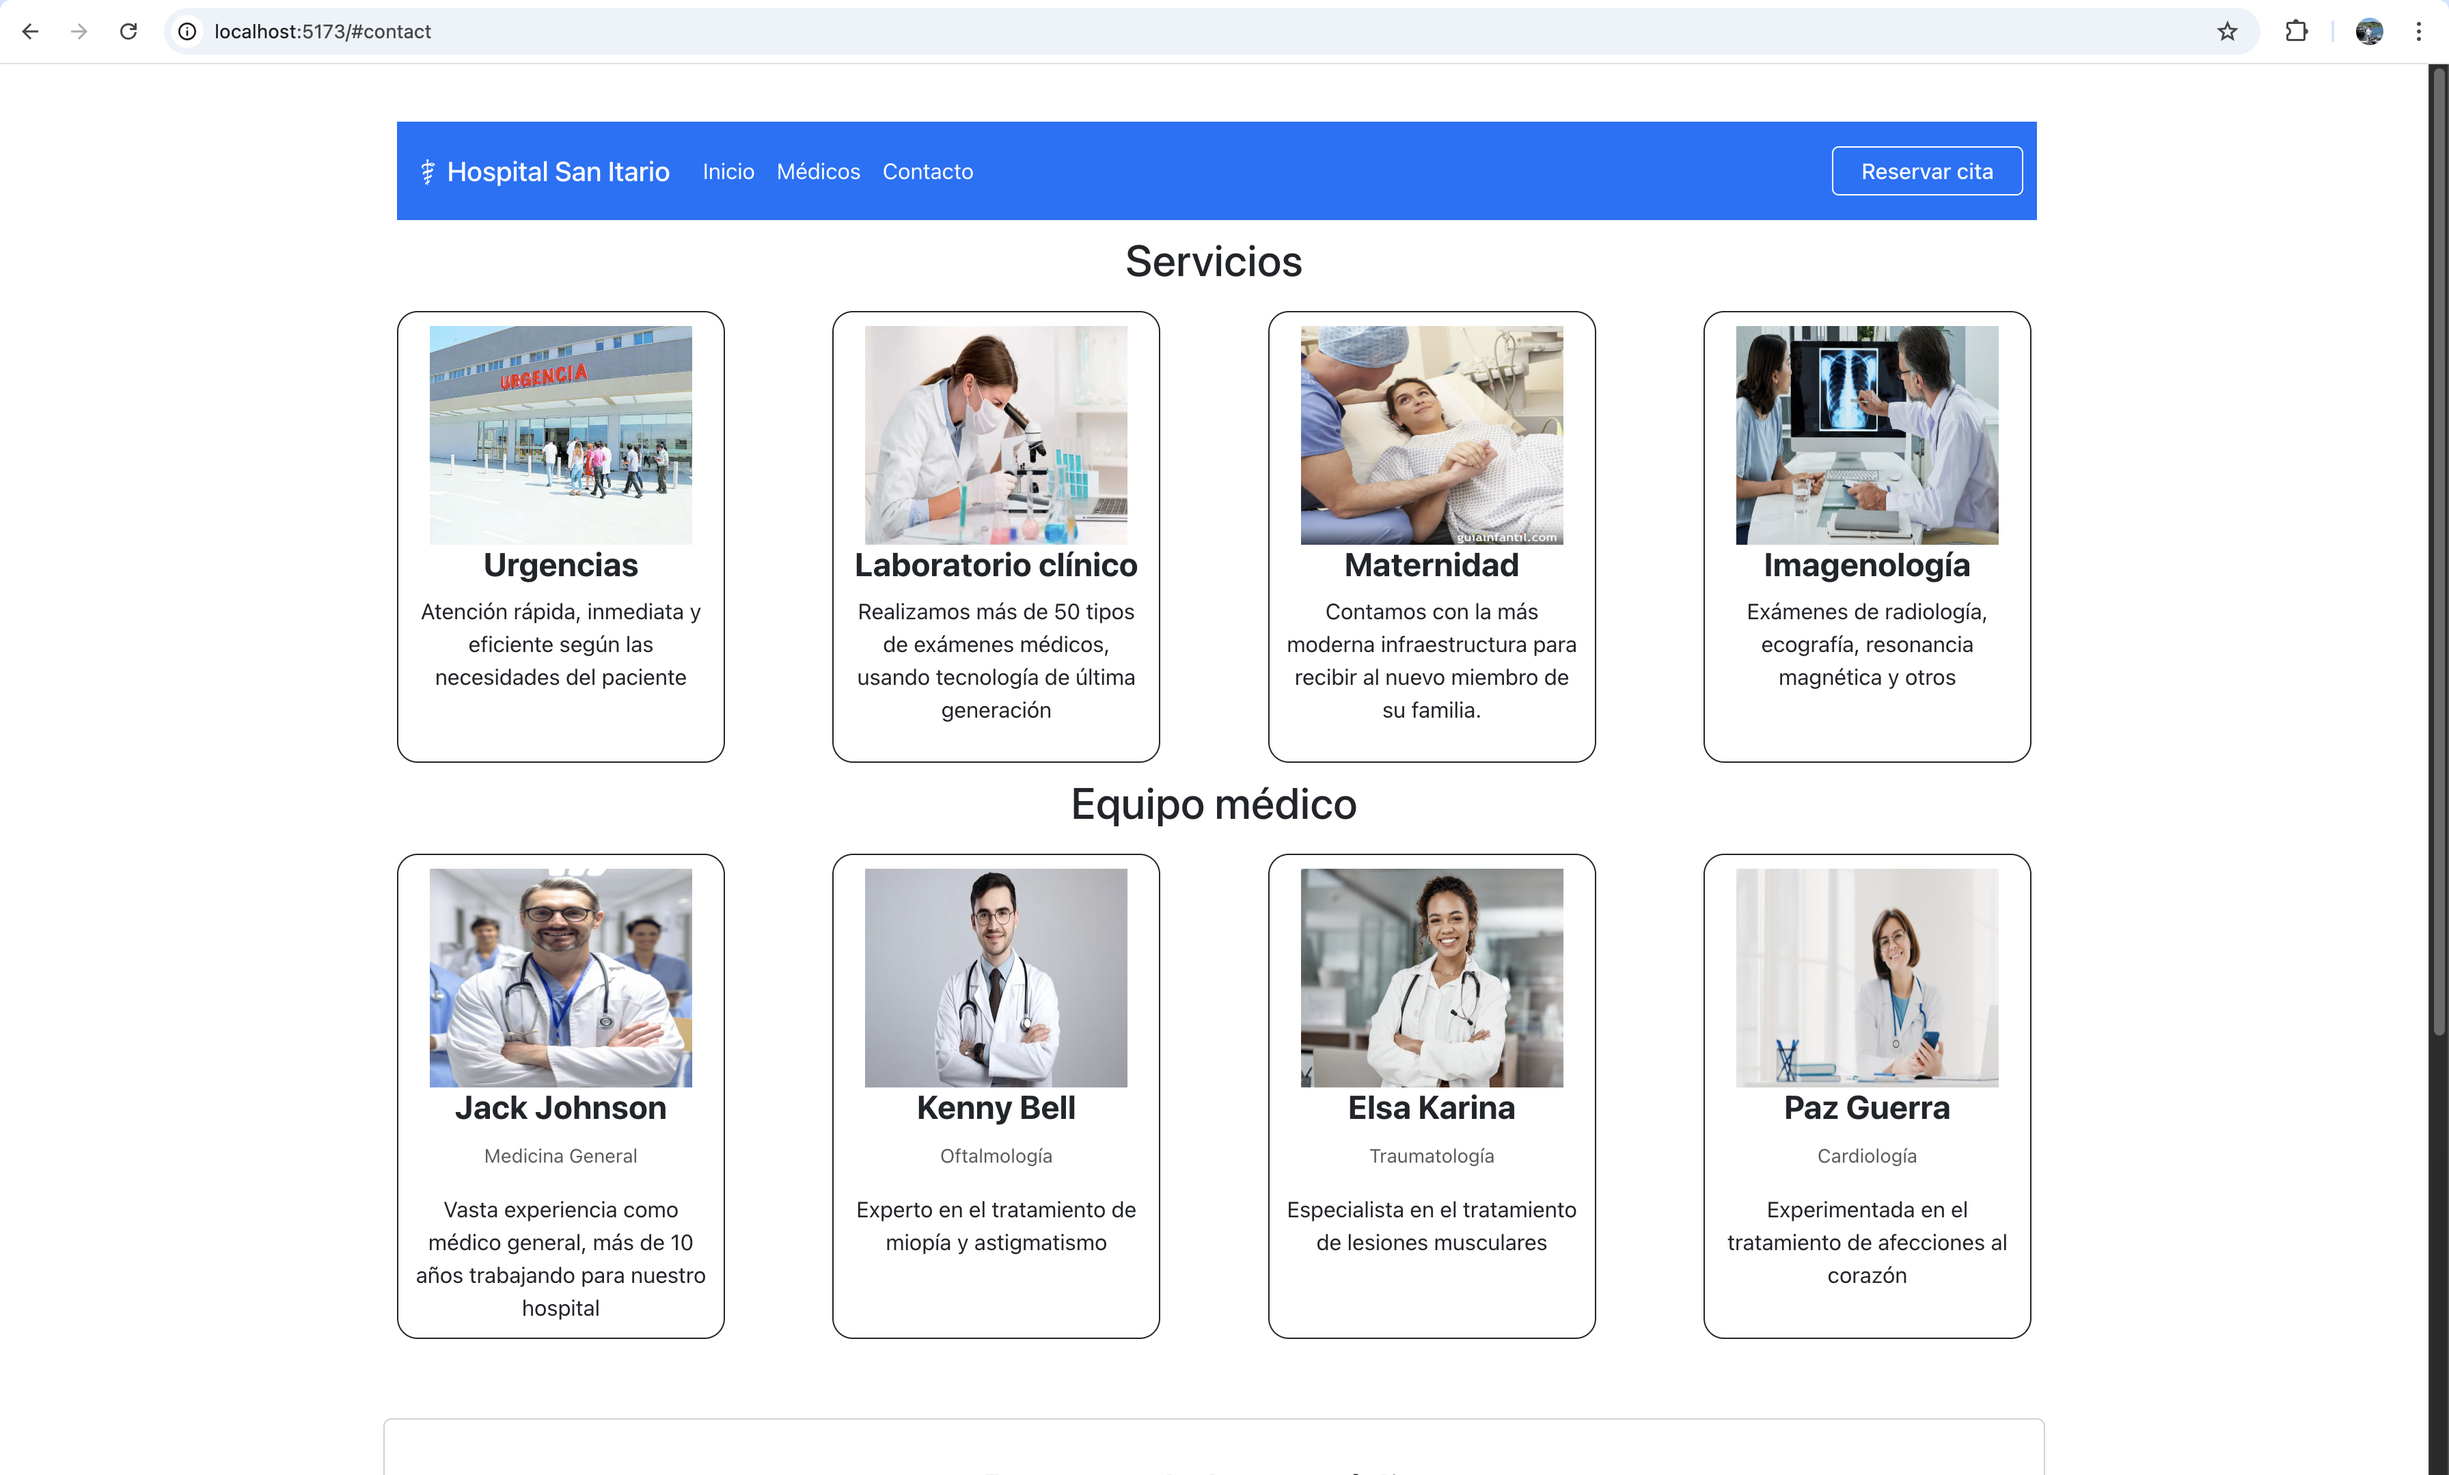
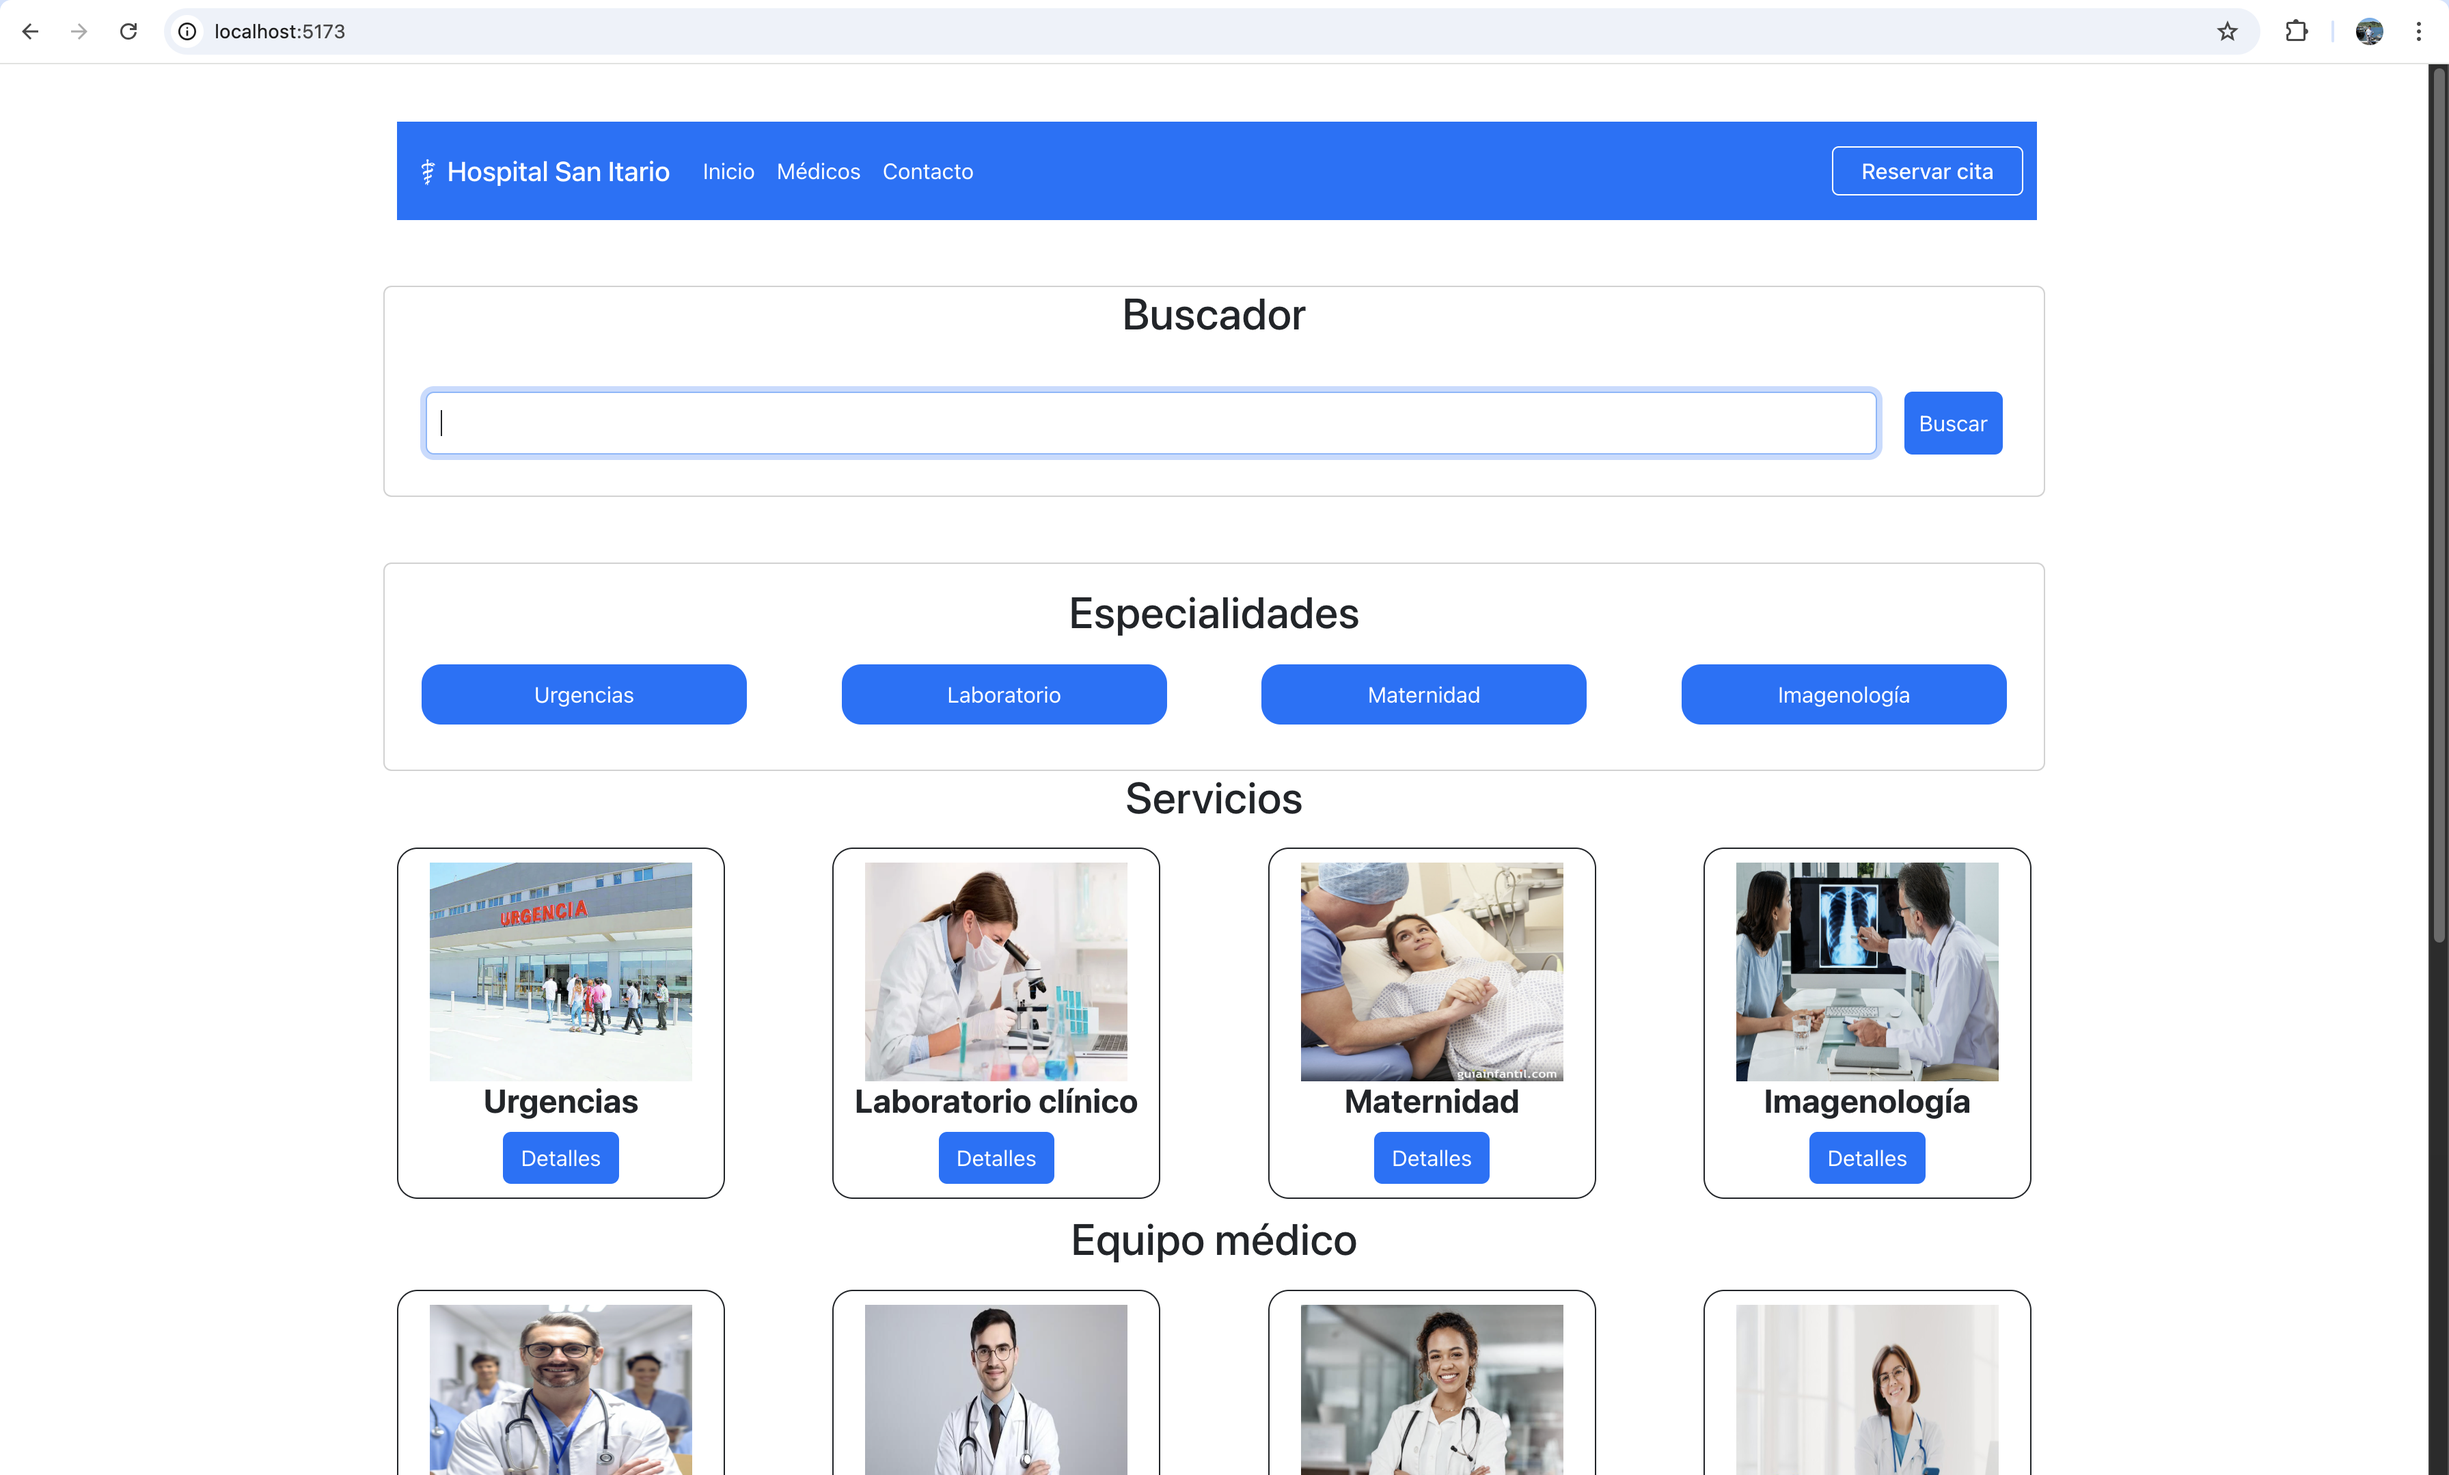
Actualizacion README.md

diff --git a/src/components/SearchComponent.jsx b/src/components/SearchComponent.jsx
@@ -11,10 +11,19 @@ class SearchComponent extends React.Component {
         this.searchField.current.focus();
     }
 
+    checkSearchTerm(e) {
+        if(e.target.value && !/^[A-Za-z]+$/.test(e.target.value)) {
+            alert('Ingrese sólo letras');
+            this.searchField.current.value = "";
+            this.searchField.current.focus(); 
+        }
+    }
+
     submitSearch(e) {
         e.preventDefault();
         alert('Búsqueda en construcción');
         this.searchField.current.focus();
+        this.searchField.current.value = "";
     }
   
     render() {
@@ -22,7 +31,7 @@ class SearchComponent extends React.Component {
             <div className='card mt-5' id="search">
                 <h2>Buscador</h2>
                 <form className="search-form" onSubmit={this.submitSearch}>
-                    <input type="text" name="searchField" className="form-control" ref={this.searchField} required/>
+                    <input type="text" name="searchField" className="form-control" ref={this.searchField} onChange={this.checkSearchTerm} required/>
                     <button type="submit" className="btn btn-primary">Buscar</button>
                 </form>
             </div>

diff --git a/src/components/AppointmentForm.jsx b/src/components/AppointmentForm.jsx
@@ -31,7 +31,7 @@ export default function AppointmentForm() {
                         <input type="email" id="email" className="form-control" placeholder="Email" ref={emailInputRef} />
                     </div>
                     <div className="mb-3">
-                        <input type="text" id="specialty" className="form-control" placeholder="Especialidad" ref={specialtyInputRef} required />
+                        <input type="text" id="specialty" className="form-control" placeholder="Especialidad" ref={specialtyInputRef} />
                     </div>
                     <div className="mb-3">
                         <textarea rows="4" id="message" className="form-control" placeholder="Mensaje" ref={messageInputRef} />

diff --git a/src/components/DoctorList.jsx b/src/components/DoctorList.jsx
@@ -7,10 +7,12 @@ export default function DoctorList({ doctors }) {
         <div id="#staff">
             <h2>Equipo médico</h2>
             <ul className="services-list">
-                {doctors.map((doctor) => (
-                    <li key={doctor.id}>
-                        <DoctorCard doctor={doctor} />
-                    </li>
+                {doctors
+                    .filter(doctor => doctor.id)
+                    .map(doctor => (
+                        <li key={doctor.id}>
+                            <DoctorCard doctor={doctor} />
+                        </li>
                 ))}
             </ul>
         </div>

diff --git a/README.md b/README.md
@@ -35,3 +35,22 @@ http://localhost:5173
 Si todo lo anterior se realizó correctamente, se debería visualizar el sitio web como en la imagen siguiente:
 
 ![Sitio web](images/website_react.png "Sitio web")
+
+## Ejercicio técnico Nº2 - Módulo 4
+### Manejo del DOM virtual en ReactJS
+Para la renderización eficiente de la información en la aplicación, se usa el hook `useEffect()` con el fin de modificar en el DOM real sólo los elementos que fueron modificados en el DOM virtual. Ello se usó para obtener los datos de doctores y servicios médicos (`App.jsx`)
+
+### Creación y uso de referencias en React
+En el componente `SearchComponent` se implementaron aspectos como la creación y uso de referencias, con el fin de controlar un campo de un formulario de búsqueda y llamar a un callback en caso de ingresar un valor incorrecto (en el ejemplo sólo se permiten letras en la barra de búsqueda).
+
+### Uso de fragmentos y contexto en React
+Para el uso de fragmentos se utilizaron los componentes `DoctorCard` y `ServiceCard`, los cuales consisten en las "tarjetitas" con la información de servicios y doctores. Por otro lado, se utilizó `Context` para gestionar una lista de especialidades médicas, las cuales se muestran inmediatamente debajo de la barra de búsqueda.
+
+### Verificación de tipos con PropTypes
+Se implementó el uso de `PropTypes` para procesar las listas e ítemes relativos a doctores y servicios médicos. Particularmente, en la lista de doctores se envía un doctor con información incompleta, lo cual gatilla mensajes de error visibles en la consola, haciendo referencia a campos marcados con `isRequired`.
+
+### Uso de componentes de orden superior (HOC) y Portales
+Para la implementación de los modales para ver mayores detalles de servicios y doctores, se usó `React.createPortal`. Asimismo, tales modales consisten en HOCs, los cuales son "enriquecidos" con una función que añade una imagen al componente informativo (`withPhoto.jsx`) 
+
+### Optimización de rendimiento y Profiler
+Finalmente, se implementó el uso de un `Profiler` en el componente que muestra la lista de especialidades obtenidas desde el `Context`mencionado anteriormente. Asimismo, para optimizar el renderizado de dicho componente se implementó mediante `React.memo()` el componente `SpecialtyView`.
